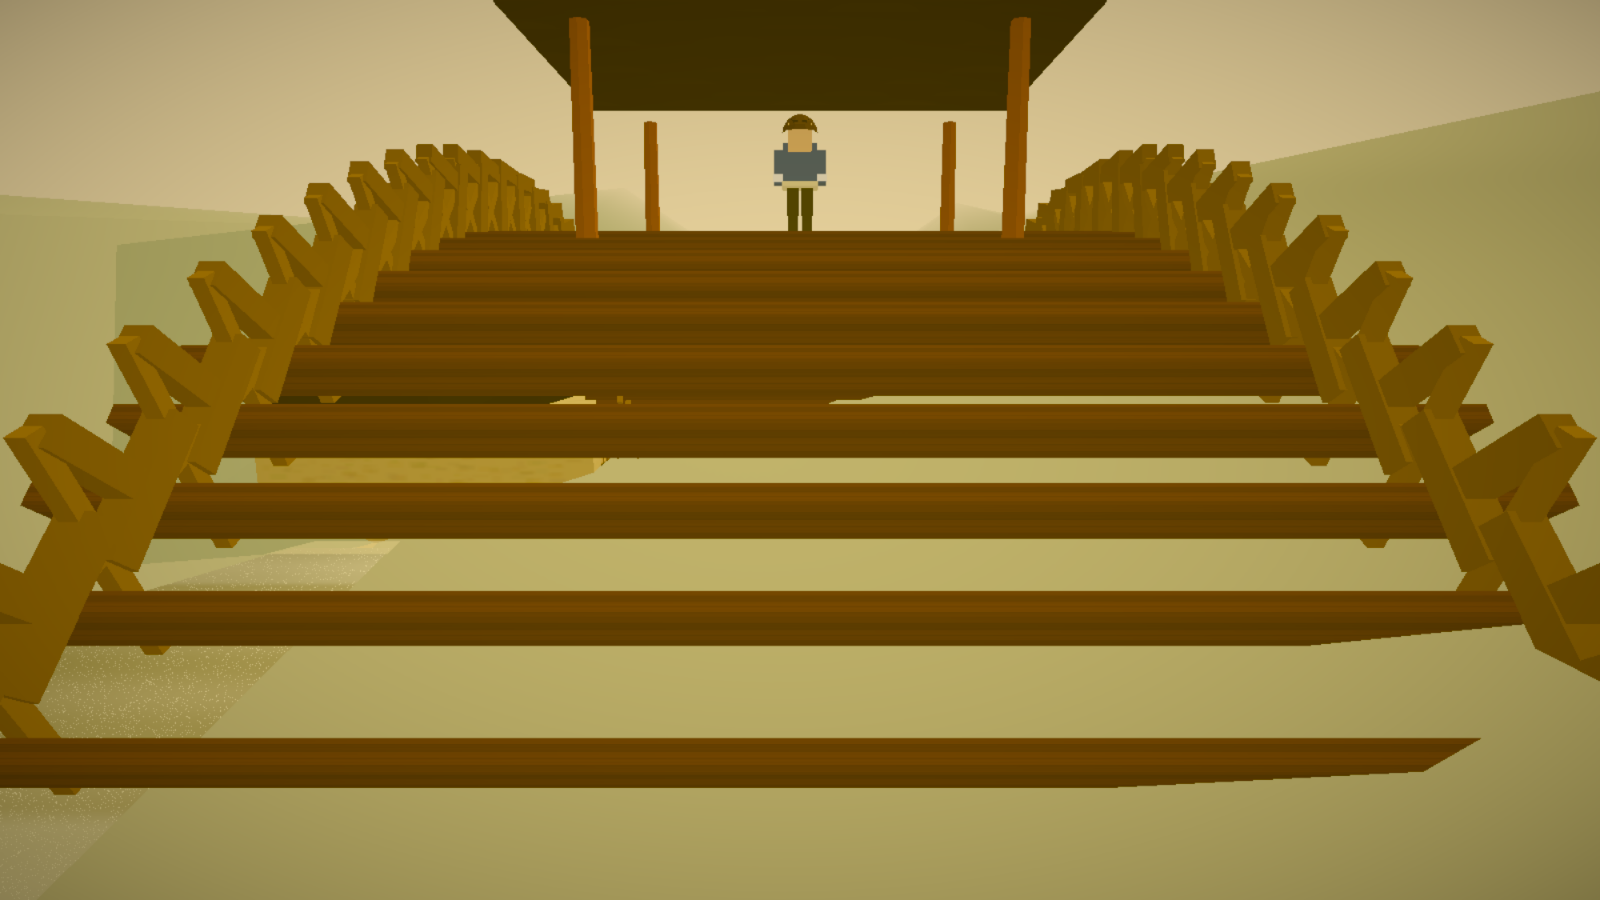
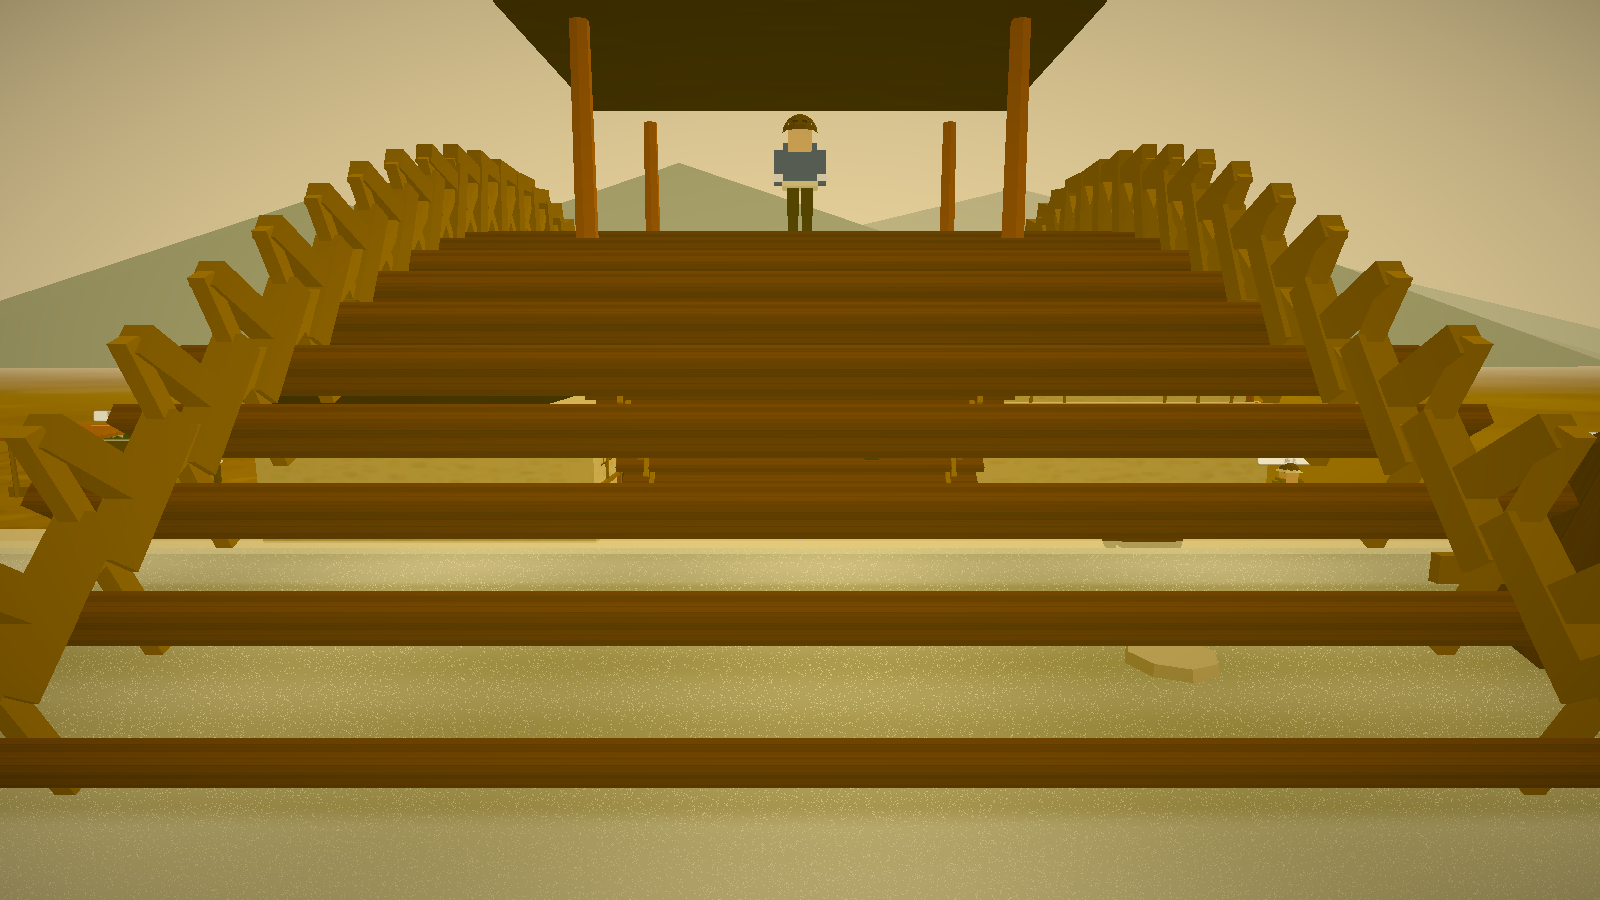
修复远山：几何 bug（盖房/淹人）+ 减雾可见
问题：山"在房子旁、淹没了人"。
根因：scale.z=3.2 把圆锥半径放大了 3.2 倍当山脊，半径 60 的山
在 z 向延伸 ±192，直接盖到两岸建筑与 NPC 上。

修复：
① 单位圆锥按轴向缩放（x=山脊长轴、z=薄厚、y=高），山移到游玩区
   （z±100）之外的南北两列（近层 z±118~140、远层 z±158~176），
   包围盒实测不再与游玩区重叠
② 山被远处雾洗白不可见 → toon 材质加 uFogScale（默认1），远山用
   0.4 减雾保持"青山入画"可见
③ 山色改黛青 #5f786a

全量自检：山体渲染扫描 32% 帧面积、无重叠、glare/gray 低、
selftest/features/qa/E2E 桌面33/手机14 全过；og-cover 与海报重出。

diff --git a/src/world/terrain.js b/src/world/terrain.js
@@ -52,29 +52,30 @@ export function buildTerrain(scene) {
   scene.add(group);
 }
 
-// 远山：北南两列黛青山脊，远景入画
+// 远山：北南两列黛青山脊，远景入画（单位圆锥按轴向缩放，山脊长轴沿 x、厚度沿 z）
+// fogScale 减雾：远山作为背景层，不受远处雾过度淹没，保持"青山入画"可见
 export function buildMountains(scene) {
   const g = new THREE.Group();
-  // 远山色（青灰，随雾渐远）
-  const mk = (color) => toon({ color });
-  const ridge = (x, z, w, h) => {
-    const m = new THREE.Mesh(flat(new THREE.ConeGeometry(w, h, 14, 1)), mk('#8a967a'));
-    m.position.set(x, h / 2 - 0.5, z);
-    m.scale.z = 3.2; // 拉成山脊
-    g.add(m);
+  const ridge = (group, x, z, lenX, thickZ, h, color) => {
+    const m = new THREE.Mesh(flat(new THREE.ConeGeometry(1, 1, 14, 1)), toon({ color, fogScale: 0.4 }));
+    m.scale.set(lenX, h, thickZ);          // x=山脊长度, y=高度, z=厚度
+    m.position.set(x, h / 2 - 0.5, z);     // 底座贴地
+    group.add(m);
   };
-  // 北山
-  for (const [x, z, w, h] of [[-95, -135, 46, 34], [-40, -142, 60, 40], [35, -138, 52, 36], [95, -133, 44, 30]]) ridge(x, z, w, h);
-  // 南山
-  for (const [x, z, w, h] of [[-90, 135, 50, 38], [-30, 142, 62, 42], [40, 136, 50, 34], [95, 140, 44, 30]]) ridge(x, z, w, h);
-  // 更远的淡山（第二层，更雾）
+  // 北山（近层，位于游玩区以北；黛青色，远山如黛）
+  ridge(g, -95, -118, 110, 13, 34, '#5f786a');
+  ridge(g, -25, -126, 130, 15, 42, '#5f786a');
+  ridge(g, 65, -120, 105, 13, 36, '#5f786a');
+  // 南山（近层，位于游玩区以南）
+  ridge(g, -95, 132, 115, 13, 36, '#5f786a');
+  ridge(g, -20, 140, 130, 15, 42, '#5f786a');
+  ridge(g, 70, 134, 105, 13, 34, '#5f786a');
+  // 更远的淡山（第二层，更淡更灰，层次在雾里）
   const far = new THREE.Group();
-  for (const [x, z, w, h] of [[-70, -175, 80, 34], [60, -178, 90, 40], [-60, 178, 90, 38], [70, 175, 80, 32]]) {
-    const m = new THREE.Mesh(flat(new THREE.ConeGeometry(w, h, 12, 1)), toon({ color: '#a4a887' }));
-    m.position.set(x, h / 2 - 0.5, z);
-    m.scale.z = 4;
-    far.add(m);
-  }
+  ridge(far, -70, -158, 170, 22, 40, '#8a9c90');
+  ridge(far, 55, -164, 190, 24, 44, '#8a9c90');
+  ridge(far, -65, 170, 175, 22, 42, '#8a9c90');
+  ridge(far, 60, 176, 190, 24, 44, '#8a9c90');
   scene.add(g);
   scene.add(far);
 }

diff --git a/src/render/materials.js b/src/render/materials.js
@@ -511,6 +511,7 @@ export const FOG_UNIFORMS = {
   uFogColor: { value: new THREE.Color(__dusk ? '#e2cfa8' : '#e7d8b4') },
   uFogNear: { value: 55 },
   uFogFar: { value: 200 },
+  uFogScale: { value: 1 }, // 雾强度系数（远山等背景层调低以保持可见）
 };
 
 const toonVert = /* glsl */`
@@ -542,6 +543,7 @@ uniform float uUseAlpha;
 uniform vec3 uFogColor;
 uniform float uFogNear;
 uniform float uFogFar;
+uniform float uFogScale;
 varying vec3 vNormal;
 varying vec3 vView;
 varying vec2 vUv;
@@ -571,7 +573,7 @@ void main() {
   col *= base;
   // 柔和高光压缩（防过曝发白，同时保持暖色饱和）
   col = 1.0 - exp(-col * 1.5);
-  float fogFactor = smoothstep(uFogNear, uFogFar, max(vFogDepth, 0.0));
+  float fogFactor = smoothstep(uFogNear, uFogFar, max(vFogDepth, 0.0)) * uFogScale;
   col = mix(col, uFogColor, clamp(fogFactor, 0.0, 1.0));
   gl_FragColor = vec4(col, alpha);
 }`;
@@ -583,7 +585,7 @@ const WHITE_TEX = new THREE.CanvasTexture((() => {
 })());
 
 // 每个材质共享同一份光照/雾 uniforms 的 value 对象 → 全局调光一次即全部生效
-export function toon({ color = 0xffffff, map = null, transparent = false, opacity = 1, side = null, boost = 0, useAlpha = false } = {}) {
+export function toon({ color = 0xffffff, map = null, transparent = false, opacity = 1, side = null, boost = 0, useAlpha = false, fogScale = 1 } = {}) {
   const uniforms = Object.assign({}, {
     uColor: { value: new THREE.Color(color) },
     uMap: { value: map || WHITE_TEX },
@@ -591,6 +593,7 @@ export function toon({ color = 0xffffff, map = null, transparent = false, opacit
   if (boost > 0) uniforms.uBoost = { value: boost };      // 室内材质独立环境光增益
   if (transparent) uniforms.uOpacity = { value: opacity }; // 透明材质独立透明度
   if (useAlpha) uniforms.uUseAlpha = { value: 1 };         // 卷轴等镂空
+  if (fogScale !== 1) uniforms.uFogScale = { value: fogScale }; // 远山等背景层减雾
   const mat = new THREE.ShaderMaterial({
     uniforms,
     vertexShader: toonVert,

diff --git a/docs/04-CHANGELOG.md b/docs/04-CHANGELOG.md
@@ -150,6 +150,12 @@
 |---|---|
 | `448383e` | **新布局**：建筑由"一条南北大街"改为**分列拱桥两岸**——北岸 5 家（回春堂/醉仙楼/清风茶肆/悦来客栈/百杂铺，z 3~18）+ 南岸 5 家（锦绣布庄/张记肉铺/桂香点心/丰源米铺/宝香斋，z 46~62），共 10 家，河流保留、两岸由虹桥相连。**去城门**：移除城门楼/城墙/城门碰撞/小地图城门绘制，城门打卡改为「观山亭」；衙役/守将迁至桥北头巡检。**远山**：`buildMountains` 南北两列黛青山脊（近层 8 座 + 远雾层 4 座），入画出景。码头东移至北岸（x21~29），船/药草/布匹/竞速随迁。任务 NPC（货郎/茶博士/赵大夫/沈掌柜/船老大等）、可交互物、树木全部重排并避开建筑与码头。selftest/features/qa 全过，E2E 桌面 33/手机 14 全过，og-cover 与宣传海报已按新布局重出 |
 
+## 阶段二十三：远山修复与画面自检（几何 bug + 减雾）
+
+| 提交 | 内容 |
+|---|---|
+| `(待补)` | **问题**：山"在房子旁、淹没人"。**根因**：`scale.z=3.2` 把圆锥半径放大了 3.2 倍做山脊——半径 60 的山在 z 向延伸 ±192，直接盖到两岸建筑与 NPC 上。**修复**：改用单位圆锥按轴向缩放（x=山脊长轴、z=薄厚、y=高），山整体移到游玩区（z±100）之外的南北两列（近层 z±118~140、远层 z±158~176），包围盒实测不再与游玩区重叠。**同时**：山被远处雾洗白近乎不可见 → 给 toon 材质加 `uFogScale`（默认 1），远山用 0.4 减雾，保持"青山入画"可见；山色改黛青（#5f786a）。全量自检：山体渲染扫描 32% 帧面积、无重叠、glare/gray 低、selftest/features/qa/E2E 桌面 33/手机 14 全过；og-cover 与宣传海报按新画面重出 |
+
 ## 经验教训（后续开发必读）
 
 1. **真实 GPU 与 swiftshader 渲染有差异**：部分伪影仅真机出现，务必用"用户截图分析 + 真机调试工具（射线检测）"定位，勿只依赖本地无头测试。
